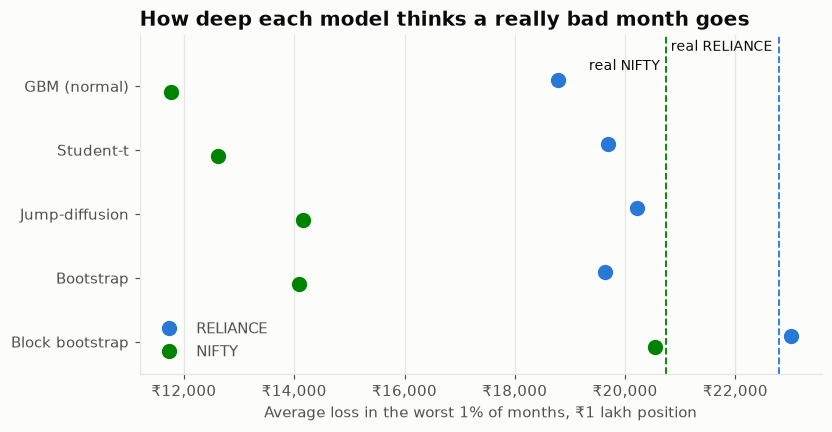
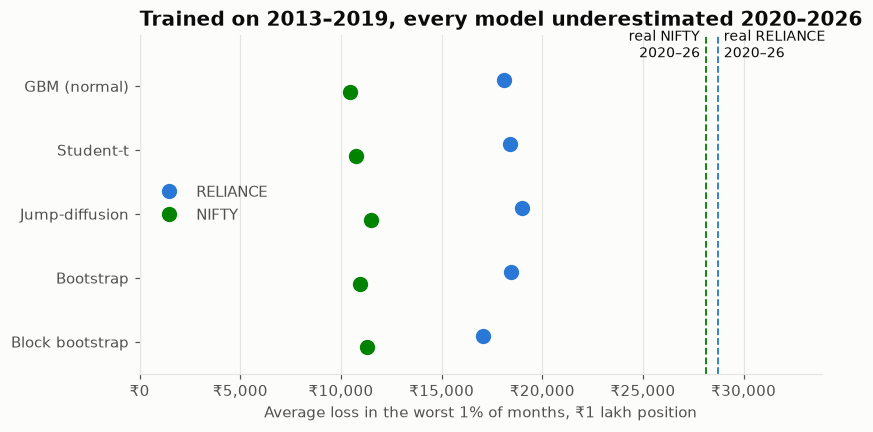
fix: correct README findings and harden checks after independent review
- Model comparison now includes an out-of-sample test (train 2013-2019,
  score 2020-2026): every model underestimates real bad-month losses by
  34-63%. The earlier block-bootstrap match was in-sample replay.
- VaR/CVaR finding compares at the same level: real history looks milder at
  95% and only flips in the worst 1%.
- Fetch script now flags adjusted one-day drops over 20%, as the README said.
- Leveraged equity curves can no longer go below zero and recover.
- Stronger look-ahead test; consistent de-trending; corrected √time range,
  drift wording, diversification ratio and an overlap caveat on coverage.

diff --git a/src/mc/reports.py b/src/mc/reports.py
@@ -329,7 +329,8 @@ def report_risk(out_dir: Path) -> dict:
     sim = gbm_paths(s0, 0.0, sigma, days, 200_000, seed=11, antithetic=True)
     pnl_sim = capital * (sim[:, -1] / s0 - 1)
     real_growth = (prices.shift(-days) / prices).dropna()
-    pnl_real = capital * (real_growth.to_numpy() / np.exp(lr.mean() * days) - 1)  # de-trended
+    # De-trend to the models' zero-drift convention (mean daily log return = -σ²/2).
+    pnl_real = capital * (real_growth.to_numpy() / np.exp((lr.mean() + 0.5 * lr.var()) * days) - 1)
     for name, pnl in [("gbm", pnl_sim), ("real", pnl_real)]:
         for lvl in (0.95, 0.99):
             v, c = var_cvar(pnl, lvl)
@@ -522,7 +523,8 @@ def report_models(out_dir: Path) -> dict:
     real_cvar = {}
     for sym in syms:
         growth = (prices[sym].shift(-horizon) / prices[sym]).dropna().to_numpy()
-        real_pnl = capital * (growth / np.exp(lr[sym].mean() * horizon) - 1)
+        real_pnl = capital * (growth / np.exp((lr[sym].mean() + 0.5 * lr[sym].var()) * horizon)
+                              - 1)
         real_cvar[sym] = var_cvar(real_pnl, 0.99)[1]
         result[f"{sym}_real_cvar99"] = round(real_cvar[sym])
         for name in names:
@@ -544,6 +546,25 @@ def report_models(out_dir: Path) -> dict:
             result[f"{sym}_{key}"] = (f"cov90 {c90['hit'].mean():.1%} | miss99 {m:.2%} "
                                       f"(down {dn:.2%}) | cvar99 ₹{cv:,.0f} | {secs:.1f}s")
     result["forecasts"] = len(c99)
+
+    # Out of sample: fit on 2013–2019 only, compare with real 2020–2026 bad months.
+    split = "2020-01-01"
+    oos = {s: [] for s in syms}
+    oos_real = {}
+    for sym in syms:
+        train = lr[sym][lr.index < split].to_numpy()
+        test = prices[sym][prices.index >= split]
+        tlr = log_returns(test)
+        g = (test.shift(-horizon) / test).dropna().to_numpy()
+        oos_real[sym] = var_cvar(capital * (g / np.exp((tlr.mean() + 0.5 * tlr.var()) * horizon)
+                                            - 1), 0.99)[1]
+        result[f"{sym}_oos_real_cvar99_2020on"] = round(oos_real[sym])
+        for name in names:
+            f = MODELS[name](train, 1.0, horizon, 200_000, np.random.default_rng(9))[:, -1]
+            c = var_cvar(capital * (f - 1), 0.99)[1]
+            oos[sym].append(c)
+            key = name.split(" (")[0].replace(" ", "_").replace("-", "_").lower()
+            result[f"{sym}_oos_{key}"] = f"₹{c:,.0f} ({c / oos_real[sym] - 1:+.0%})"
 
     y = np.arange(len(names))
     fig, axes = plt.subplots(1, 2, figsize=(11, 4.2), sharey=True)
@@ -569,17 +590,20 @@ def report_models(out_dir: Path) -> dict:
 
     fig, ax = plt.subplots(figsize=(8, 4))
     for k, sym in enumerate(syms):
-        ax.plot(cvar[sym], y + (k - 0.5) * 0.18, "o", ms=9, color=plots.COLORS[sym], label=sym)
-        ax.axvline(real_cvar[sym], color=plots.COLORS[sym], ls="--", lw=1.2)
-        ax.annotate(f"real {sym}", (real_cvar[sym], -0.55 + k * 0.3), xytext=(-4, 0),
-                    ha="right", textcoords="offset points", fontsize=9, color=plots.TEXT)
+        ax.plot(oos[sym], y + (k - 0.5) * 0.18, "o", ms=9, color=plots.COLORS[sym], label=sym)
+        ax.axvline(oos_real[sym], color=plots.COLORS[sym], ls="--", lw=1.2)
+        right = oos_real[sym] >= max(oos_real.values())
+        ax.annotate(f"real {sym}\n2020–26", (oos_real[sym], -0.45), xytext=(4 if right else -4, 0),
+                    ha="left" if right else "right", textcoords="offset points", fontsize=9,
+                    color=plots.TEXT)
     ax.set_yticks(y, names)
     ax.xaxis.set_major_formatter(plt.FuncFormatter(_rupees))
     ax.grid(axis="y", visible=False)
     ax.set_xlabel("Average loss in the worst 1% of months, ₹1 lakh position")
     ax.set_ylim(len(names) - 0.5, -0.8)
-    ax.set_title("How deep each model thinks a really bad month goes")
-    ax.legend(loc="lower left")
+    ax.set_xlim(0, max(oos_real.values()) * 1.18)
+    ax.set_title("Trained on 2013–2019, every model underestimated 2020–2026")
+    ax.legend(loc="center left")
     plots.save(fig, out_dir, "models-tail")
     return result
 

diff --git a/tests/test_strategy.py b/tests/test_strategy.py
@@ -74,3 +74,23 @@ def test_luck_probability():
     assert 0.35 < luck_probability(same_edge, bench, n_boot=2000, seed=0) < 0.65
     strong = bench + 0.002 + rng.normal(0, 0.002, 2000)
     assert luck_probability(strong, bench, n_boot=2000, seed=0) < 0.01
+
+
+def test_leveraged_equity_cannot_go_negative_and_recover():
+    r = pd.Series([0.0, -0.6, 0.5, 0.5])  # a -60% day at 2x leverage wipes the account
+    eq = simulate_equity(r, 200, 50, fraction=2.0, seed=0)
+    assert (eq >= 0).all()
+    wiped = (eq == 0).any(axis=1)
+    assert wiped.any()
+    assert (eq[wiped, -1] == 0).all()  # once at zero, it stays at zero
+
+
+def test_momentum_mid_series_shock_leaves_earlier_returns_unchanged():
+    p = _prices()
+    k = 400
+    base = momentum_returns(p, lookback=126, top_n=2, rebalance=21)
+    shocked = p.copy()
+    shocked.iloc[k:] *= np.linspace(1.0, 4.0, len(p) - k)[:, None]
+    after = momentum_returns(shocked, lookback=126, top_n=2, rebalance=21)
+    cut = p.index[k - 1]
+    assert np.allclose(base.loc[:cut], after.loc[:cut])

diff --git a/src/mc/data.py b/src/mc/data.py
@@ -90,3 +90,16 @@ def find_splits(raw: pd.Series, adj: pd.Series, threshold: float = 0.2) -> pd.Da
 def growth_of(prices: pd.DataFrame, amount: float = 100_000) -> pd.DataFrame:
     """Value of `amount` invested in each column on the first row, held to the end."""
     return prices / prices.iloc[0] * amount
+
+
+def flag_adjusted_drops(
+    adj: pd.DataFrame, threshold: float = 0.2
+) -> list[tuple[str, pd.Timestamp]]:
+    """(symbol, date) pairs where an *adjusted* price falls more than `threshold` in a day.
+
+    Large-cap stocks rarely do that for real, so each hit is worth checking for a corporate
+    action the data source failed to adjust (e.g. a missed 1:2 bonus shows as about -33%).
+    """
+    moves = adj.pct_change().stack()
+    hits = moves[moves < -threshold]
+    return [(sym, date) for date, sym in hits.index]

diff --git a/scripts/fetch_data.py b/scripts/fetch_data.py
@@ -8,7 +8,7 @@ import os
 import sys
 from pathlib import Path
 
-from mc.data import DATA_PATH, fetch_lake, fetch_yfinance
+from mc.data import DATA_PATH, INDEX, SYMBOLS, fetch_lake, fetch_yfinance, flag_adjusted_drops
 
 
 def main() -> None:
@@ -20,6 +20,9 @@ def main() -> None:
     source = "local lake" if lake else "Yahoo Finance"
     span = f"{df.index.min():%Y-%m-%d} to {df.index.max():%Y-%m-%d}"
     print(f"{source}: {len(df)} rows, {span} -> {out}")
+    for sym, date in flag_adjusted_drops(df[SYMBOLS + [INDEX]]):
+        print(f"  check {sym} {date:%Y-%m-%d}: adjusted price fell >20% in a day "
+              "(possible unadjusted split/bonus)")
 
 
 if __name__ == "__main__":

diff --git a/tests/test_data.py b/tests/test_data.py
@@ -87,3 +87,12 @@ def test_unadjust_splits_compounds_multiple_splits():
     close = _series([10, 10, 10])
     splits = _series([0, 2, 1.5])
     assert unadjust_splits(close, splits).tolist() == [30, 15, 10]
+
+
+def test_flag_adjusted_drops_catches_missed_bonus():
+    from mc.data import flag_adjusted_drops
+
+    adj = pd.DataFrame({"ITC": [300.0, 301.0, 201.0, 202.0], "TCS": [10.0, 10.1, 10.2, 10.0]},
+                       index=pd.date_range("2016-06-29", periods=4, freq="D"))
+    flags = flag_adjusted_drops(adj, threshold=0.2)
+    assert list(flags) == [("ITC", pd.Timestamp("2016-07-01"))]

diff --git a/src/mc/strategy.py b/src/mc/strategy.py
@@ -52,7 +52,8 @@ def simulate_equity(daily_returns: pd.Series, days: int, n_paths: int, block: in
     """
     rng = np.random.default_rng(seed)
     r = _resample(np.asarray(daily_returns, float), days, n_paths, block, rng)
-    growth = np.cumprod(1 + fraction * r, axis=1)
+    # A leveraged loss beyond -100% wipes the account; equity can't go negative and recover.
+    growth = np.cumprod(np.maximum(1 + fraction * r, 0.0), axis=1)
     return np.hstack([np.ones((n_paths, 1)), growth])
 
 

diff --git a/README.md b/README.md
@@ -23,7 +23,7 @@ A Monte Carlo risk engine for Indian equities. It simulates price paths for sing
 
 ### 1. Unadjusted prices invent crashes
 
-The 5 stocks show 9 one-day drops of 31–51% in raw prices. Every one is a split or bonus issue, not a loss. A data source that missed one ITC bonus reports 0.9%/yr; the real figure is 6.9%/yr. The pipeline flags any adjusted one-day drop over 20%.
+The 5 stocks show 9 one-day drops of 31–51% in raw prices. Every one is a split or bonus issue, not a loss. In a check against a local NSE data lake that missed ITC's 2016 bonus, ITC showed 0.9%/yr against a real 6.9%/yr (that lake isn't public, so this figure can't be reproduced from Yahoo). The fetch script now flags any *adjusted* one-day drop over 20% for review; on the Yahoo data the only hit is INFY's real −21% results-day fall in April 2013.
 
 <table><tr>
 <td><a href="docs/img/data-raw-vs-adjusted.png"><picture><source media="(prefers-reduced-motion: reduce)" srcset="docs/img/data-raw-vs-adjusted.png"><img src="docs/img/data-raw-vs-adjusted.gif" alt="Raw vs adjusted price around a split"></picture></a></td>
@@ -32,7 +32,7 @@ The 5 stocks show 9 one-day drops of 31–51% in raw prices. Every one is a spli
 
 ### 2. Real returns have fat tails, and √time only holds short-term
 
-Under a normal distribution, a day beyond 4σ should happen about 0.2 times in 14 years. Each stock had 16–22. Scaling daily volatility by √days matches realised volatility to within ~5% up to 1 month, but overstates it by 5–30% at 3–12 months.
+Under a normal distribution, a day beyond 4σ should happen about 0.2 times in 14 years. Each stock had 16–22. Scaling daily volatility by √days matches realised volatility to within ~5% up to 1 month, but overstates it at 3–12 months, by up to ~40% for RELIANCE at 1 year (27% vs 19%). The long-horizon figures rest on only ~13 independent years.
 
 <table><tr>
 <td><a href="docs/img/returns-vs-normal.png"><picture><source media="(prefers-reduced-motion: reduce)" srcset="docs/img/returns-vs-normal.png"><img src="docs/img/returns-vs-normal.gif" alt="Daily returns vs the normal curve"></picture></a></td>
@@ -41,7 +41,7 @@ Under a normal distribution, a day beyond 4σ should happen about 0.2 times in 1
 
 ### 3. The historical mean return is not a forecast
 
-RELIANCE's 13.6-year drift is 18.7%/yr ± 7.3% (1 standard error). Plausible drifts move the median 1-year price from ₹1,327 to ₹1,851, so risk simulations default to zero drift. Even at zero drift, 55% of paths end below today's price (volatility drag). Antithetic sampling cuts the error of the simulated mean 3–5× at the same path count.
+RELIANCE's 13.6-year drift is 18.7%/yr ± 7.3% (1 standard error). Within ±2 standard errors, the median 1-year price ranges from ₹1,385 to ₹1,851 (₹1,327 at zero drift), so risk simulations default to zero drift. Even at zero drift, 55% of paths end below today's price (volatility drag). Antithetic sampling cuts the error of the simulated mean 3–5× at the same path count.
 
 <a href="docs/img/gbm-drift-uncertainty.png"><picture><source media="(prefers-reduced-motion: reduce)" srcset="docs/img/gbm-drift-uncertainty.png"><img src="docs/img/gbm-drift-uncertainty.gif" alt="Drift uncertainty"></picture></a>
 
@@ -50,9 +50,9 @@ RELIANCE's 13.6-year drift is 18.7%/yr ± 7.3% (1 standard error). Plausible dri
 <td><a href="docs/img/gbm-paths-needed.png"><picture><source media="(prefers-reduced-motion: reduce)" srcset="docs/img/gbm-paths-needed.png"><img src="docs/img/gbm-paths-needed.gif" alt="Error vs number of paths"></picture></a></td>
 </tr></table>
 
-### 4. VaR hides the tail; CVaR doesn't
+### 4. Real bad months look milder than the model until the worst 1%
 
-On ₹1 lakh of RELIANCE over 1 month, historical VaR 95% (₹10.1k) looks safer than the GBM model's (₹12.1k). Yet the historical average loss in the worst 1% of months is ₹22.6k, against the model's ₹18.8k. Stop-losses trigger on touches: a −10% level is touched within 3 months 41% of the time but is still breached at the end only 24% of the time.
+On ₹1 lakh of RELIANCE over 1 month, real history looks *safer* than the GBM model at the 95% level, for VaR (₹10.4k vs ₹12.1k) and CVaR (₹14.3k vs ₹14.9k) alike. Only deep in the tail does it flip: the average loss in the worst 1% of real months is ₹22.8k, 22% worse than the model's ₹18.8k. Risk checks need to look at the 99% tail, not just 95%. Stop-losses trigger on touches: a −10% level is touched within 3 months 41% of the time but is still breached at the end only 24% of the time.
 
 <table><tr>
 <td><a href="docs/img/risk-var-cvar.png"><picture><source media="(prefers-reduced-motion: reduce)" srcset="docs/img/risk-var-cvar.png"><img src="docs/img/risk-var-cvar.gif" alt="VaR and CVaR, model vs history"></picture></a></td>
@@ -61,20 +61,18 @@ On ₹1 lakh of RELIANCE over 1 month, historical VaR 95% (₹10.1k) looks safer
 
 ### 5. A model can pass at 90% and fail at 99%
 
-This is a walk-forward test over 2016–2026: 2,636 one-month forecasts per stock, each made using only the 3 years before it. GBM's 90% band holds (90–93% coverage). Its 99% band is breached 2–3× too often, and up to 3.5× on the downside. Its sense of risk also lags: coverage fell to ~70% in 2020 and sat near 100% in 2021–23. Using only prior data, it rated NIFTY's Feb–Mar 2020 month (−37%) at 1 in 10³⁹.
+This is a walk-forward test over 2016–2026: 2,636 one-month forecasts per stock, each made using only the 3 years before it. GBM's 90% band holds (90–93% coverage). Its 99% band is breached 2–3× too often, and up to 3.5× on the downside. Its sense of risk also lags: coverage fell to ~70% in 2020 and sat near 100% in 2021–23. Using only prior data, it rated NIFTY's Feb–Mar 2020 month (−37%) at 1 in 10³⁹. Caveat: the 2,636 forecasts overlap day by day, so there are only ~125 independent months, and most of the excess 99% misses come from one episode (2020). Treat the 2–3× as indicative, not precise.
 
 <table><tr>
 <td><a href="docs/img/validate-coverage.png"><picture><source media="(prefers-reduced-motion: reduce)" srcset="docs/img/validate-coverage.png"><img src="docs/img/validate-coverage.gif" alt="Rolling coverage of the 90% band"></picture></a></td>
 <td><a href="docs/img/validate-worst-months.png"><picture><source media="(prefers-reduced-motion: reduce)" srcset="docs/img/validate-worst-months.png"><img src="docs/img/validate-worst-months.gif" alt="Model odds of the worst real months"></picture></a></td>
 </tr></table>
 
-### 6. Only the block bootstrap gets the depth of a bad month right
+### 6. No model, trained on calmer years, foresaw 2020–2026
 
-Five models were compared on the same data. For the average loss in the worst 1% of months, the block bootstrap gives ₹23.0k (RELIANCE) and ₹20.5k (NIFTY), against real values of ₹22.8k and ₹20.75k. Every other model understates it, GBM on NIFTY by 43%.
+Five models (GBM, Student-t, Merton jump-diffusion, bootstrap, block bootstrap) were trained on 2013–2019 only and asked how deep a really bad month gets (average loss in the worst 1% of months). Against what 2020–2026 actually delivered, every model fell short: by 34–41% for RELIANCE and 59–63% for NIFTY. The block bootstrap was no better than the rest.
 
-Resampling single days (plain bootstrap) barely beats GBM. Over a month, independent fat-tailed days average out. It's bad days *clustering together* that makes monthly tails fat.
-
-No model fixes the walk-forward 99% misses. Those come from volatility regime shifts, not the shape of the distribution.
+Fitted on the full history, the block bootstrap does match the real figure (₹23.0k vs ₹23.0k for RELIANCE), but that is replay, not prediction: its 20-day blocks nearly reproduce the same windows it's scored on. A model can't contain a crash that isn't in its training data, so a margin of safety (stress scenarios) has to be added by hand. On the walk-forward 99% test, no model beat GBM in a meaningful way: with ~10 misses per model, a gap of one or two misses is noise.
 
 <table><tr>
 <td><a href="docs/img/models-tail.png"><picture><source media="(prefers-reduced-motion: reduce)" srcset="docs/img/models-tail.png"><img src="docs/img/models-tail.gif" alt="Tail depth per model"></picture></a></td>
@@ -83,7 +81,7 @@ No model fixes the walk-forward 99% misses. Those come from volatility regime sh
 
 ### 7. Diversification is real, but simple models overstate it
 
-On ₹5 lakh, holding one stock (RELIANCE) loses ₹1.14L (22.9%) on average in the worst 1% of months. An equal-weight basket of the 5 cuts that to ₹88k (17.6%) when real days are replayed with all 5 stocks together. Treating the stocks as independent claims ₹42k (8.4%), and a correlation matrix with bell-curve moves claims ₹60k (12.0%): both make the basket look 2–3× safer than history says. The reason is crash days. Every one of the 10 stock pairs moves together more on NIFTY's worst 10% of days (average correlation 0.18 → 0.25), so protection thins out exactly when it's needed.
+On ₹5 lakh, holding one stock (RELIANCE) loses ₹1.14L (22.9%) on average in the worst 1% of months. An equal-weight basket of the 5 cuts that to ₹88k (17.6%) when real days are replayed with all 5 stocks together. Treating the stocks as independent claims ₹42k (8.4%), and a correlation matrix with bell-curve moves claims ₹60k (12.0%): they make the basket look about 2× and 1.5× safer than history says. The reason is crash days. Every one of the 10 stock pairs moves together more on NIFTY's worst 10% of days (average correlation 0.18 → 0.25), so protection thins out exactly when it's needed.
 
 <a href="docs/img/portfolio-basket-risk.png"><picture><source media="(prefers-reduced-motion: reduce)" srcset="docs/img/portfolio-basket-risk.png"><img src="docs/img/portfolio-basket-risk.gif" alt="Basket vs single-stock tail loss under three methods"></picture></a>
 
